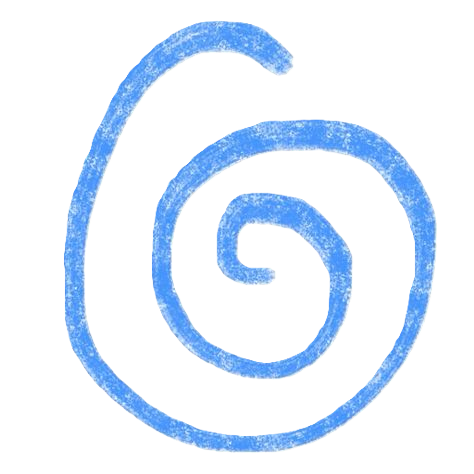
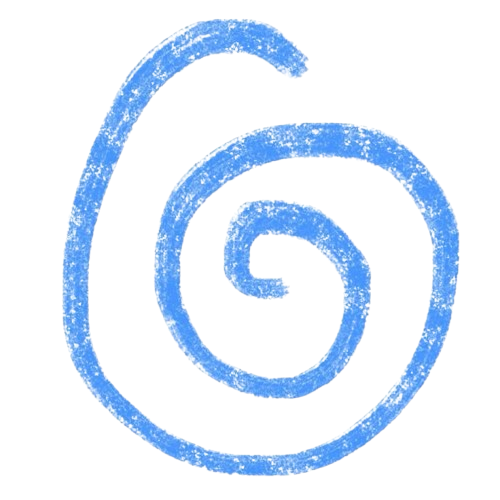
spiral replace

diff --git a/index.html b/index.html
@@ -94,7 +94,7 @@
             </div>
             <div class="hero-right">
                 <div class="image-block spinning-spiral">
-                    <div class="spiral-graphic"><img src="media/spiral.png" alt="Spiral Graphic"></div>
+                    <div class="spiral-graphic"><img src="media/spiral.PNG" alt="Spiral Graphic"></div>
                 </div>
             </div>
         </section>